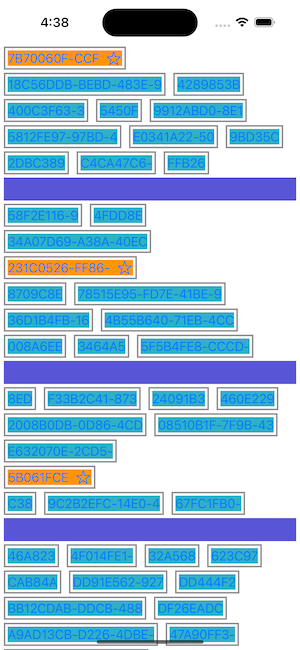
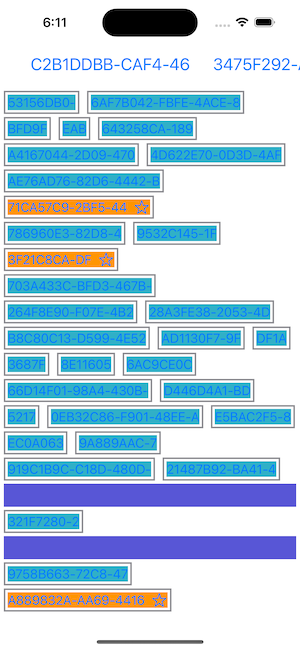
Added header section selector

diff --git a/TagsMenu/ContentView.swift b/TagsMenu/ContentView.swift
@@ -8,117 +8,33 @@
 import SwiftUI
 
 struct ContentView: View {
-    @State private var items: [MenuItem] = MenuItemBuilder.buildMock
+    @State private var headerItems: [HeaderItem] = HeaderItemBuilder.buildMock
+    @State private var menuItems: [MenuItem] = MenuItemBuilder.buildMock
 
     var body: some View {
-        ScrollView {
-            MenuView(items: $items,
-                     alignment: .leading,
-                     buttonTapAction: { id in handleTap(id: id) },
-                     isDebug: true)
+        VStack {
+            HeaderView(items: $headerItems,
+                       tapAction: handleHeaderTap)
+            ScrollView {
+                MenuView(items: $menuItems,
+                         alignment: .trailing,
+                         tapAction: { id in handleMenuTap(id: id) },
+                         isDebug: true)
+            }
         }
     }
 }
 private extension ContentView {
-    func handleTap(id: UUID) {
+    func handleMenuTap(id: UUID) {
         debugPrint("Button pressed with id: \(id.uuidString)")
+    }
+    func handleHeaderTap(id: UUID) {
+        menuItems = menuItems.shuffled()
     }
 }
 
 struct ContentView_Previews: PreviewProvider {
     static var previews: some View {
         ContentView()
-    }
-}
-
-struct MenuView_Previews: PreviewProvider {
-    struct Container: View {
-        @State private var items: [MenuItem] = MenuItemBuilder.buildMock
-        private let universesItems = {
-            let heyUID = UUID()
-            let otherUid = UUID()
-            let holiUID = UUID()
-            return [
-                [
-                    MenuItem(title: "Hey",
-                             containsIcon: false,
-                             isSpacer: false,
-                             id: heyUID),
-                    MenuItem(title: nil,
-                             containsIcon: false,
-                             isSpacer: true),
-                    MenuItem(title: nil,
-                             containsIcon: false,
-                             isSpacer: true),
-                    MenuItem(title: "Holi",
-                             containsIcon: false,
-                             isSpacer: false,
-                             id: holiUID),
-                    MenuItem(title: "Otro",
-                             containsIcon: false,
-                             isSpacer: false,
-                             id: otherUid),
-                ],
-                [
-                    MenuItem(title: "Holi",
-                             containsIcon: false,
-                             isSpacer: false,
-                             id: holiUID),
-                    MenuItem(title: nil,
-                             containsIcon: false,
-                             isSpacer: true),
-                    MenuItem(title: nil,
-                             containsIcon: false,
-                             isSpacer: true),
-                    MenuItem(title: "Hey",
-                             containsIcon: false,
-                             isSpacer: false,
-                             id: heyUID),
-                    MenuItem(title: nil,
-                             containsIcon: false,
-                             isSpacer: true),
-                    MenuItem(title: "Otro",
-                             containsIcon: false,
-                             isSpacer: false,
-                             id: otherUid),
-                ]
-            ]
-        }()
-        
-        var body: some View {
-            VStack {
-                HStack {
-                    Button(action: {
-                        withAnimation(.default, {
-                            items = universesItems[0]
-                        })
-                    }, label: {
-                        Text("Uno")
-                    })
-                    Button(action: {
-                        withAnimation(.default, {
-                            items = universesItems[1]
-                        })
-                    }, label: {
-                        Text("Dos")
-                    })
-                    Button(action: {
-                        withAnimation(.default, {
-                            items.shuffle()
-                        })
-                    }, label: {
-                        Text("Shuffle")
-                    })
-                }
-                ScrollView {
-                    MenuView(items: $items,
-                             alignment: .trailing)
-                }
-            }
-        }
-    }
-    
-    static var previews: some View {
-        Container()
     }
 }

diff --git a/TagsMenu/Header/HeaderView.swift b/TagsMenu/Header/HeaderView.swift
@@ -1,0 +1,52 @@
+//
+//  HeaderView.swift
+//  TagsMenu
+//
+//  Created by likeadeveloper on 23/5/23.
+//
+
+import SwiftUI
+
+struct HeaderView: View {
+    @Binding var items: [HeaderItem]
+    var itemsSpacing: CGFloat = 30
+    var leadingSpacing: CGFloat = 10
+    var trailingSpacing: CGFloat = 10
+    var tapAction: ((UUID) -> ())?
+
+    private var rows: [GridItem] {
+        [GridItem(.flexible())]
+    }
+
+    var body: some View {
+        ScrollViewReader { proxy in
+            ScrollView(.horizontal) {
+                LazyHGrid(rows: rows,
+                          alignment: .center,
+                          spacing: itemsSpacing) {
+                    Spacer(minLength: leadingSpacing)
+                    ForEach(items) { item in
+                        Button {
+                            withAnimation {
+                                tapAction?(item.id)
+                                proxy.scrollTo(item.id, anchor: .center)
+                            }
+
+                        } label: {
+                            HeaderCell(title: item.title)
+                        }
+                    }
+                    Spacer(minLength: trailingSpacing)
+                }
+            }
+            .frame(maxHeight: 50)
+            .scrollIndicators(.hidden)
+        }
+    }
+}
+
+struct Header_Previews: PreviewProvider {
+    static var previews: some View {
+        HeaderView(items: .constant(HeaderItemBuilder.buildMock))
+    }
+}

diff --git a/TagsMenu/Menu/MenuView.swift b/TagsMenu/Menu/MenuView.swift
@@ -7,10 +7,10 @@
 
 import SwiftUI
 
-struct MenuView: View {
-    @Binding var items: [MenuItem]
+struct MenuView<Model: MenuItemWrap>: View {
+    @Binding var items: [Model]
     var alignment: MenuAlignment
-    var buttonTapAction: ((UUID) -> Void)?
+    var tapAction: ((UUID) -> Void)?
     
     var isDebug: Bool = false
 
@@ -24,12 +24,12 @@ struct MenuView: View {
     }
 }
 private extension MenuView {
-    func buildCellforItem(_ item: MenuItemWrap, priority: Double = .zero) -> some View {
+    func buildCellforItem(_ item: Model, priority: Double = .zero) -> some View {
         switch item.type {
         case .regular:
             return AnyView(
                 RegularCell(model: item,
-                            pressAction: buttonTapAction,
+                            tapAction: tapAction,
                             isDebug: isDebug)
             )
 
@@ -41,9 +41,9 @@ private extension MenuView {
         case .oneLine:
             return AnyView(
                 OneLineCell(model: item,
-                             pressAction: buttonTapAction,
-                             aligment: alignment,
-                             isDebug: isDebug)
+                            tapAction: tapAction,
+                            aligment: alignment,
+                            isDebug: isDebug)
             )
         }
     }

diff --git a/TagsMenu/Menu/cells/base/BaseCell.swift b/TagsMenu/Menu/cells/base/BaseCell.swift
@@ -8,16 +8,16 @@
 import SwiftUI
 
 struct BaseCell<Content: View>: MenuCell {
-    var model: MenuItemWrap
+    var model: any MenuItemWrap
     var extraContent: Content
-    var pressAction: ((UUID) -> Void)?
-
+    var tapAction: ((UUID) -> Void)?
+    
     var isDebug: Bool = false
     var debugBackgroundColor: Color = .green
-
+    
     var body: some View {
         Button {
-            pressAction?(model.id)
+            tapAction?(model.id)
         } label: {
             HStack {
                 Text(model.name)
@@ -36,7 +36,7 @@ extension MenuCell {
         let padding: EdgeInsets = padding
         ? EdgeInsets(top: 5, leading: 5, bottom: 5, trailing: 5)
         : EdgeInsets(top: .zero, leading: .zero, bottom: .zero, trailing: .zero)
-
+        
         return body
             .padding(padding)
             .border(.gray, width: 2)

diff --git a/TagsMenu/Menu/cells/OneLineCell.swift b/TagsMenu/Menu/cells/OneLineCell.swift
@@ -8,8 +8,8 @@
 import SwiftUI
 
 struct OneLineCell: MenuCell {
-    var model: MenuItemWrap
-    var pressAction: ((UUID) -> Void)?
+    var model: any MenuItemWrap
+    var tapAction: ((UUID) -> Void)?
     let aligment: MenuAlignment
 
     var isDebug: Bool = false
@@ -23,7 +23,7 @@ struct OneLineCell: MenuCell {
             
             BaseCell(model: model,
                      extraContent: Image(systemName: "star"),
-                     pressAction: pressAction,
+                     tapAction: tapAction,
                      isDebug: isDebug,
                      debugBackgroundColor: debugBackgroundColor)
             .addBorder()

diff --git a/TagsMenu/Menu/cells/RegularCell.swift b/TagsMenu/Menu/cells/RegularCell.swift
@@ -8,8 +8,8 @@
 import SwiftUI
 
 struct RegularCell: View {
-    var model: MenuItemWrap
-    var pressAction: ((UUID) -> Void)?
+    var model: any MenuItemWrap
+    var tapAction: ((UUID) -> Void)?
 
     var isDebug: Bool = false
     private let debugBackgroundColor: Color = .teal
@@ -18,7 +18,7 @@ struct RegularCell: View {
         HStack {
             BaseCell(model: model,
                      extraContent: HStack {},
-                     pressAction: pressAction,
+                     tapAction: tapAction,
                      isDebug: isDebug,
                      debugBackgroundColor: debugBackgroundColor)
             .addBorder()

diff --git a/TagsMenu/Header/domain/HeaderItem.swift b/TagsMenu/Header/domain/HeaderItem.swift
@@ -1,0 +1,23 @@
+//
+//  HeaderItem.swift
+//  TagsMenu
+//
+//  Created by likeadeveloper on 23/5/23.
+//
+
+import Foundation
+
+struct HeaderItem {
+    var id: UUID = UUID()
+    var title: String
+}
+extension HeaderItem: Identifiable, Equatable {}
+
+struct HeaderItemBuilder {
+    static var buildMock: [HeaderItem] = {
+        Range(0...Int.random(in: Range(3...6))).map { index in
+            HeaderItem(title: String(UUID().uuidString
+                .prefix(Int.random(in: Range(3...20)))))
+        }
+    }()
+}

diff --git a/TagsMenu/Menu/domain/_wrapper/MenuItemWrap.swift b/TagsMenu/Menu/domain/_wrapper/MenuItemWrap.swift
@@ -1,0 +1,15 @@
+//
+//  MenuItemWrap.swift
+//  TagsMenu
+//
+//  Created by likeadeveloper on 23/5/23.
+//
+
+import Foundation
+
+// MARK: - MenuItemWrap
+protocol MenuItemWrap: Identifiable, Equatable {
+    var id: UUID { get }
+    var name: String { get }
+    var type: MenuItemType { get }
+}

diff --git a/TagsMenu/Menu/domain/MenuItem.swift b/TagsMenu/Menu/domain/MenuItem.swift
@@ -8,13 +8,6 @@
 import Foundation
 import SwiftUI
 
-// MARK: - MenuItemWrap
-protocol MenuItemWrap {
-    var id: UUID { get }
-    var name: String { get }
-    var type: MenuItemType { get }
-}
-
 struct MenuItem: Identifiable, Equatable {
     var id: UUID
     var title: String?

diff --git a/TagsMenu/Header/cells/HeaderCell.swift b/TagsMenu/Header/cells/HeaderCell.swift
@@ -1,0 +1,16 @@
+//
+//  HeaderCell.swift
+//  TagsMenu
+//
+//  Created by likeadeveloper on 23/5/23.
+//
+
+import SwiftUI
+
+struct HeaderCell: View {
+    @State var title: String
+    var body: some View {
+        Text(title)
+            .font(.title2)
+    }
+}
